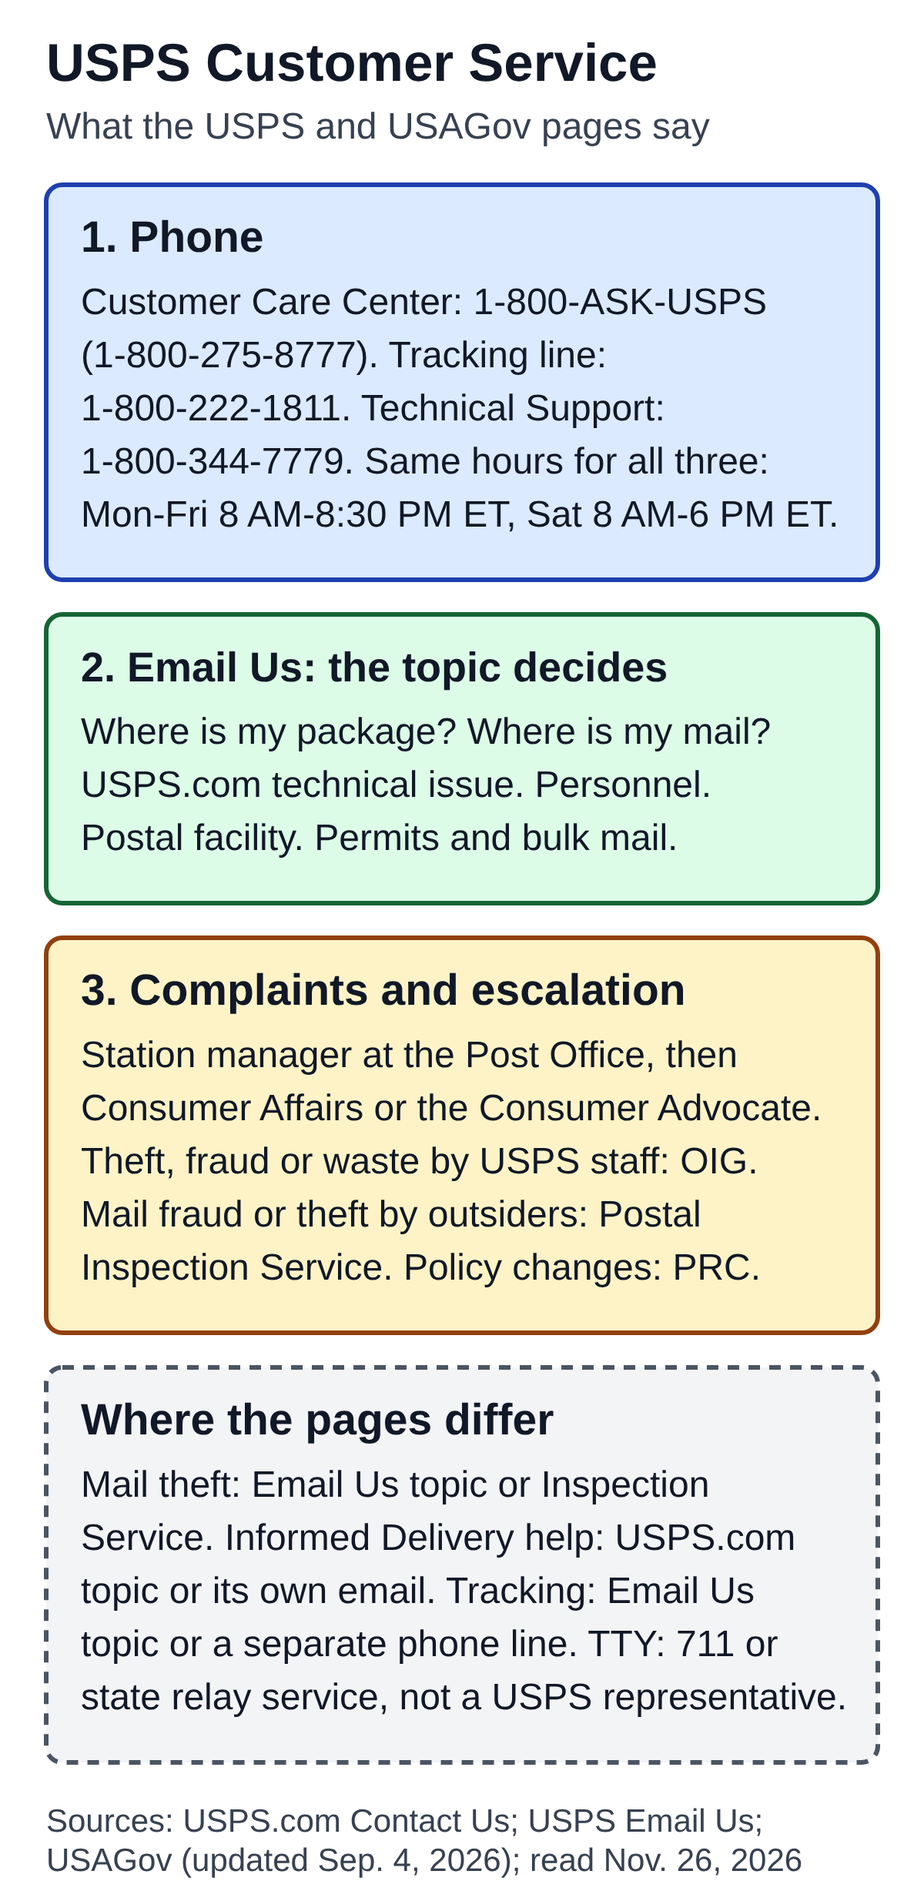
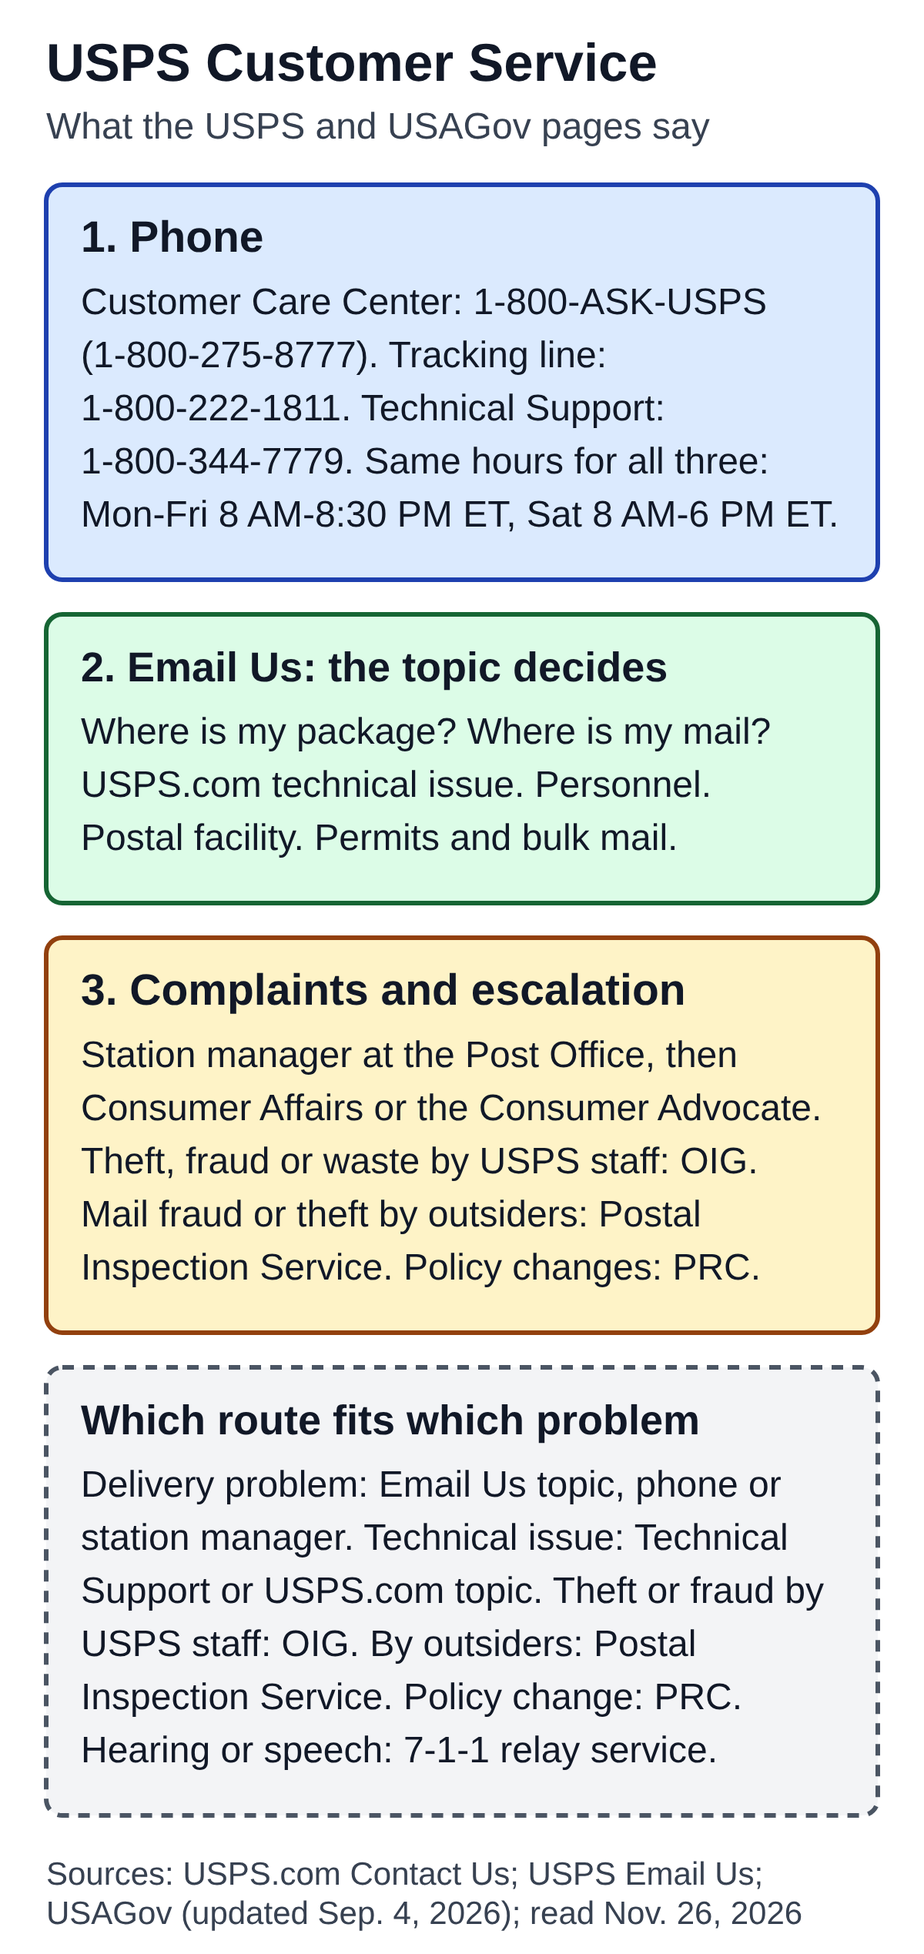
Customer Service: group routes by problem instead of calling them page differences (Gate 2 FIX)
Claude-Session: https://claude.ai/code/session_01BXtGEA3Qzg6u2ejRb8jbFU

diff --git a/content/drafts/usps-customer-service-how-to-contact.md b/content/drafts/usps-customer-service-how-to-contact.md
@@ -1,23 +1,23 @@
 ---
 title: "USPS Customer Service: How to Phone, Email or File a Complaint"
 slug: usps-customer-service-how-to-contact
-meta_description: "What USPS pages say about reaching customer service: phone lines, Email Us topics, where to take a complaint and where the pages differ."
+meta_description: "What USPS pages say about reaching customer service: phone lines, Email Us topics, where to take a complaint and which route fits which problem."
 category: Postal service and stamps
 focus_keyword: usps customer service
 status: draft
 date: 2026-11-26
 internal_link_candidates: usps-tracking-status-what-it-means and usps-missing-mail-search-how-it-works (both published; each appears once in the body with link text matching the live title).
 image: assets/optimized/usps-customer-service-how-to-contact.png
-image_alt: "Diagram of the contact routes on USPS pages. Phone: the Customer Care Center at 1-800-ASK-USPS (1-800-275-8777), a tracking line at 1-800-222-1811 and Technical Support at 1-800-344-7779, all open Monday to Friday 8 AM to 8:30 PM Eastern and Saturday 8 AM to 6 PM Eastern. Email Us: pick a topic, either where is my package, where is my mail, USPS.com technical issues, personnel, postal facility, or permits and bulk mail. Complaints: the station manager at the Post Office, then Consumer Affairs or the Office of the Consumer Advocate; the Inspector General for theft, fraud or waste by USPS staff; the Postal Inspection Service for mail fraud or theft by outsiders; the Postal Regulatory Commission for policy changes. The pages differ on mail theft, Informed Delivery help, tracking questions and TTY."
+image_alt: "Diagram of the contact routes on USPS pages. Phone: the Customer Care Center at 1-800-ASK-USPS (1-800-275-8777), a tracking line at 1-800-222-1811 and Technical Support at 1-800-344-7779, all open Monday to Friday 8 AM to 8:30 PM Eastern and Saturday 8 AM to 6 PM Eastern. Email Us: pick a topic, either where is my package, where is my mail, USPS.com technical issues, personnel, postal facility, or permits and bulk mail. Complaints: the station manager at the Post Office, then Consumer Affairs or the Office of the Consumer Advocate; the Inspector General for theft, fraud or waste by USPS staff; the Postal Inspection Service for mail fraud or theft by outsiders; the Postal Regulatory Commission for policy changes. Which route fits which problem: delivery or mail service, technical issues, theft or fraud by USPS staff or by outsiders, policy changes, and hearing or speech needs through the 7-1-1 relay service."
 ---
 
 # USPS Customer Service: How to Phone, Email or File a Complaint
 
-**USPS pages list one main customer line, 1-800-ASK-USPS (1-800-275-8777), plus separate phone lines for tracking and for technical problems, and an Email Us form that sends you to a different place depending on the reason for your inquiry.** For complaints, a government page adds routes outside USPS customer service for employee misconduct, mail fraud and postal policy. This article puts those routes side by side and shows where the pages word things differently.
+**USPS pages list one main customer line, 1-800-ASK-USPS (1-800-275-8777), plus separate phone lines for tracking and for technical problems, and an Email Us form that sends you to a different place depending on the reason for your inquiry.** For complaints, a government page adds routes outside USPS customer service for employee misconduct, mail fraud and postal policy. This article puts those routes side by side and groups them by the problem each one is for.
 
 This article uses the USPS.com "Contact Us" page (no update date shown), the USPS "Email Us" page at emailus.usps.com (no update date shown) and the USAGov page "How to file a U.S. Postal Service complaint" (last updated September 4, 2026), all read on November 26, 2026. Phone numbers and hours are copied as the pages list them on that date and can change.
 
-![Diagram of the contact routes on USPS pages. Phone: the Customer Care Center at 1-800-ASK-USPS (1-800-275-8777), a tracking line at 1-800-222-1811 and Technical Support at 1-800-344-7779, all open Monday to Friday 8 AM to 8:30 PM Eastern and Saturday 8 AM to 6 PM Eastern. Email Us: pick a topic, either where is my package, where is my mail, USPS.com technical issues, personnel, postal facility, or permits and bulk mail. Complaints: the station manager at the Post Office, then Consumer Affairs or the Office of the Consumer Advocate; the Inspector General for theft, fraud or waste by USPS staff; the Postal Inspection Service for mail fraud or theft by outsiders; the Postal Regulatory Commission for policy changes. The pages differ on mail theft, Informed Delivery help, tracking questions and TTY.](assets/optimized/usps-customer-service-how-to-contact.png)
+![Diagram of the contact routes on USPS pages. Phone: the Customer Care Center at 1-800-ASK-USPS (1-800-275-8777), a tracking line at 1-800-222-1811 and Technical Support at 1-800-344-7779, all open Monday to Friday 8 AM to 8:30 PM Eastern and Saturday 8 AM to 6 PM Eastern. Email Us: pick a topic, either where is my package, where is my mail, USPS.com technical issues, personnel, postal facility, or permits and bulk mail. Complaints: the station manager at the Post Office, then Consumer Affairs or the Office of the Consumer Advocate; the Inspector General for theft, fraud or waste by USPS staff; the Postal Inspection Service for mail fraud or theft by outsiders; the Postal Regulatory Commission for policy changes. Which route fits which problem: delivery or mail service, technical issues, theft or fraud by USPS staff or by outsiders, policy changes, and hearing or speech needs through the 7-1-1 relay service.](assets/optimized/usps-customer-service-how-to-contact.png)
 
 ## Start with the FAQs and tracking
 
@@ -56,16 +56,20 @@ The same page names three other places:
 - **U.S. Postal Inspection Service (USPIS).** The federal law enforcement agency that protects the mail system, for mail fraud and mail theft by a person or company outside USPS, filed online.
 - **Postal Regulatory Commission (PRC).** For a comment or complaint about a policy change such as postage rates, through its online contact form.
 
-## Where the pages differ
+## Which route fits which problem
 
-- **Mail theft.** The Email Us page lists "Theft of Mail" as an example under "Where is my mail?" The USAGov page sends mail theft by someone outside USPS to the Postal Inspection Service. The pages do not say which to use first.
-- **Informed Delivery help.** The Email Us page lists Informed Delivery under USPS.com technical issues. The Contact Us page lists a separate Informed Delivery user-support email and Informed Delivery FAQs.
-- **Tracking questions.** The Email Us page has a "Where is my package?" topic for an envelope or package with a tracking number. The Contact Us page gives a separate phone line for tracking and says representatives see the same tracking information you do.
-- **TTY.** The USAGov page lists "TTY: 711" beside the main number. The USPS page describes dialing 7-1-1 to reach the relay service for your state and says that contact is not a USPS representative.
+The pages describe these routes for different situations rather than as one ordered list, so this section groups them by problem.
+
+- **A delivery or mail service problem.** The Email Us page offers "Where is my package?" and "Where is my mail?" as topics. The USAGov page adds the main phone number and the station manager at your local Post Office, and, if the complaint is not resolved, USPS Consumer Affairs and the Office of the Consumer Advocate.
+- **A question about a tracked package.** The Contact Us page gives a separate tracking phone line and says representatives see the same tracking information you do. The Email Us page has the "Where is my package?" topic for a package or envelope with a tracking number.
+- **A technical problem on USPS.com.** The Contact Us page lists Technical Support by phone and a chat feature. The Email Us page has a USPS.com topic that includes Informed Delivery, and the Contact Us page also lists a separate email address for Informed Delivery user support.
+- **Mail theft or fraud.** The Email Us page lists "Theft of Mail" as an example under "Where is my mail?" The USAGov page names the Office of the Inspector General for theft, fraud or waste at a USPS facility or by a USPS employee, and the Postal Inspection Service for mail fraud or theft by a person or company outside USPS.
+- **A policy change such as postage rates.** The USAGov page names the Postal Regulatory Commission.
+- **Hearing or speech needs.** The USAGov page lists "TTY: 711" beside the main number. The Contact Us page describes the FCC's Telecommunications Relay Services, reached by dialing 7-1-1, and says that contact is not a USPS customer service representative.
 
 ## What the pages do not say
 
-They do not say how long an email reply takes, whether a case or reference number is given, or how long a phone wait is. They do not list holiday hours for the three phone lines above; the only closure stated is for the stamps and Postal Store line, which the page says is closed on Saturdays, Sundays and Postal Holidays. They also do not say what to have ready before you call.
+They do not say which route to start with if you are unsure who took a piece of mail, how long an email reply takes, whether a case or reference number is given, or how long a phone wait is. They do not list holiday hours for the three phone lines above; the only closure stated is for the stamps and Postal Store line, which the page says is closed on Saturdays, Sundays and Postal Holidays. They also do not say what to have ready before you call.
 
 ## Sources
 

diff --git a/docs/content-backlog.md b/docs/content-backlog.md
@@ -82,7 +82,7 @@ Pilot 12 plan: 12 published + 0 ready + 0 draft + 0 briefs = 12 slots, 4 per lan
 | 46 | `usps-registered-mail-how-it-works` | USPS Registered Mail: Security, Tracking and Delivery Explained | `usps registered mail` | **published 2026-11-26 15:00 KST (live QA passed about 15:20 KST)** (WP post 181, media 180; Gate 2 round 4 on `750caf5` = PASS; sources re-read 2026-11-25 with no change; editor 0 invalid blocks; 375 and 320 px checked; file moved to `content/ready/`; the Return Receipt link needs post 174 to be public first; Return Receipt link returned 200) | post-pilot (not counted) | Lane: postal service and stamps. Second of two posts for the 2026-11-26 slots (3 PM KST). Sources: FAQ 000006061 (May 14, 2025), DMM 503 section 2.0 (no date), FAQ 000007968 (May 19, 2026, one row). Demand: handed-over Trends note (0.2 of its anchor over 90 days, 0.35 over 28 days), not re-measured, search volume not checked. No prices, fees or insurance amounts. Differences shown: the word receipt, eligible classes, 14 or more days against 15 days. Five internal links (Certified Mail, claims, tracking status, Return Receipt, Missing Mail); the Return Receipt post must be public first. Re-read all three sources right before publishing. |
 | 47 | `usps-change-of-address-how-it-works` | USPS Change of Address: How to File, Who Can File and What Happens Next | `usps change of address` | **scheduled 2026-11-27 09:00 KST** (WP post 184, media 183, status `future` re-read after saving; Gate 2 PASS after two FIX rounds (`3cf9bce`, `5ec4d21`); sources re-read 2026-11-26 with no change; editor 0 invalid blocks; 375 and 320 px checked; file moved to `content/ready/`; live QA after publication) | post-pilot (not counted) | Lane: postal service and stamps. First of four posts for 2026-11-27 and 2026-11-28 (slot 2026-11-27 9 AM KST). Sources: FAQ 000005313 (Oct 15, 2026), USPS.com Standard Forward Mail page (no date). Demand: relative Trends index only (highest of the surveyed USPS phrases), search volume not checked; see `docs/next-candidates-2026-11-26.md`. No prices or fees (both pages state the identity verification fee; not used). Two timing details shown without calling them conflicts (after Gate 2 round 1 FIX): the 7-10 days (after approval vs after the start date) and temporary forwarding periods. Three internal links (forwarding, Informed Delivery, Hold Mail). Re-read both sources right before publishing. |
 | 48 | `usps-money-order-how-it-works` | USPS Money Orders: How to Buy, Cash and Replace One | `usps money order` | **scheduled 2026-11-26** (Gate 1 done by Claude: FAQ 46 of 48 (2 phrase typos of mine), USPS.com page 31 of 31 and DMM 509.3 24 of 24 phrase checks, 3 image checks; Gate 2 round 1 = FIX (payee rules by DMM clause; no-receipt wording), fixed 2026-11-26, changed parts PASS; pre-publication re-read 2026-11-26 corrected the ID wording (FAQ: acceptable primary form of identification; USPS.com: primary photo ID) and "Form 6387", Gate 2 on that change PASS (`0bdda77`); built in WordPress as post 187 (media 186) and **scheduled for 2026-11-27 3 PM KST**, moved to ready; live QA due about 3:20 PM KST) | post-pilot (not counted) | Lane: postal service and stamps. Second of four posts for 2026-11-27 and 2026-11-28 (slot 2026-11-27 3 PM KST). Sources: FAQ 000006987 (Jun 10, 2026), USPS.com Sending Money Orders page (no date), DMM 509 section 3.0 (no date). **User instruction 2026-11-26: leave out the single-order limit amount**; the article also leaves out fees and every other amount. Demand: relative Trends index only (about 0.13 x the change-of-address phrase), search volume not checked. Differences shown: traveler's checks; one payee (DMM 3.2.4) or several (3.3.5); refund and replacement timing; where to buy. One internal link (claims). Re-read all three sources right before publishing. |
-| 49 | `usps-customer-service-how-to-contact` | USPS Customer Service: How to Phone, Email or File a Complaint | `usps customer service` | **draft 2026-11-26** (Gate 1 done by Claude: USPS.com Contact Us 34 of 34, Email Us 18 of 18, USAGov 22 of 23 (1 phrase typo of mine) phrase checks, 3 image checks; waiting for Gate 2; not moved to ready; nothing built in WordPress) | post-pilot (not counted) | Lane: postal service and stamps. **Replaces USPS Insurance** in the third slot (2026-11-28 9 AM KST): the Insurance pages are mostly amounts and overlap the claims and Priority Mail vs Ground Advantage posts; reported to the user on 2026-11-26. Sources: USPS.com Contact Us (no date), USPS Email Us (no date), USAGov complaint page (updated Sep 4, 2026). Demand: relative Trends index only (about 0.62 x the change-of-address phrase), search volume not checked. No prices or fees; phone numbers and hours dated. Differences shown: mail theft, Informed Delivery help, tracking questions, TTY. Two internal links (tracking status, missing mail search). Re-read all three sources right before publishing (numbers and hours can change). |
+| 49 | `usps-customer-service-how-to-contact` | USPS Customer Service: How to Phone, Email or File a Complaint | `usps customer service` | **draft 2026-11-26** (Gate 1 done by Claude: USPS.com Contact Us 34 of 34, Email Us 18 of 18, USAGov 22 of 23 (1 phrase typo of mine) phrase checks, 3 image checks; Gate 2 round 1 = FIX (the "Where the pages differ" section presented routes as source conflicts), fixed 2026-11-26, waiting for Gate 2 on the changed parts; not moved to ready; nothing built in WordPress) | post-pilot (not counted) | Lane: postal service and stamps. **Replaces USPS Insurance** in the third slot (2026-11-28 9 AM KST): the Insurance pages are mostly amounts and overlap the claims and Priority Mail vs Ground Advantage posts; reported to the user on 2026-11-26. Sources: USPS.com Contact Us (no date), USPS Email Us (no date), USAGov complaint page (updated Sep 4, 2026). Demand: relative Trends index only (about 0.62 x the change-of-address phrase), search volume not checked. No prices or fees; phone numbers and hours dated. Section "Which route fits which problem" (routes grouped by problem, no claimed source conflicts). Two internal links (tracking status, missing mail search). Re-read all three sources right before publishing (numbers and hours can change). |
 | 50 | `usps-free-shipping-supplies-how-it-works` | USPS Free Boxes and Envelopes: What You Can Order and the Rules That Apply | `usps free boxes` | **draft 2026-11-26** (Gate 1 done by Claude: Postal Store listing 29 of 29, nine product pages 54 of 54, Contact Us supply line 4 of 4 phrase checks, 3 image checks; waiting for Gate 2; not moved to ready; nothing built in WordPress) | post-pilot (not counted) | Lane: postal service and stamps. Fourth of four posts for 2026-11-27 and 2026-11-28 (slot 2026-11-28 3 PM KST). Sources: Postal Store Free Shipping Supplies listing and nine product pages (no update dates), USPS.com Contact Us (no date). Demand: relative Trends index only (about 0.07 x the change-of-address phrase), search volume not checked. No prices, fees or insurance amounts. Differences shown: Dual-Use tube, APO/FPO box, similar prepaid boxes that are not free. Four internal links (package pickup, certified mail, registered mail, customer service); the customer-service post must be public first. Re-read all sources right before publishing (stock and maximums change). |
 
 ## Rejected

diff --git a/editorial/qa/usps-customer-service-how-to-contact.md b/editorial/qa/usps-customer-service-how-to-contact.md
@@ -1,8 +1,8 @@
 # QA — USPS Customer Service
 
-Article: `content/drafts/usps-customer-service-how-to-contact.md` (draft, 2026-11-26, about 1,100 words including sources, one H1, Sources included; meta description 136 characters; alt text 805 characters).
+Article: `content/drafts/usps-customer-service-how-to-contact.md` (draft, 2026-11-26, about 1,100 words including sources, one H1, Sources included; meta description 144 characters after the Gate 2 fix; alt text 920 characters).
 
-Stage: draft. Gate 1 (Claude) run on 2026-11-26. Gate 2 not yet run. Backlog row 49.
+Stage: draft. Gate 1 (Claude) run on 2026-11-26. Gate 2 round 1 = FIX (one point, fixed 2026-11-26, see below); waiting for Gate 2 on the changed parts. Backlog row 49.
 
 ## Gate 1 — claim groups
 - USPS.com Contact Us: 34 of 34 phrases found.
@@ -11,14 +11,18 @@ Stage: draft. Gate 1 (Claude) run on 2026-11-26. Gate 2 not yet run. Backlog row
 - The article gives no price, fee, insurance amount or percentage (no dollar or percent sign). It gives phone numbers and hours as the pages list them, dated; it does not give the stamps / Postal Store or free-supplies numbers, the OIG number or the Consumer Advocate address.
 - Link text matches the live titles of `usps-tracking-status-what-it-means` and `usps-missing-mail-search-how-it-works`; link status to be confirmed in the WordPress build.
 
-## Where the pages differ (shown in the article, not resolved)
+## Former "Where the pages differ" (replaced after Gate 2, see below)
 - Mail theft: Email Us topic (theft of mail) vs USAGov (outside theft to the Postal Inspection Service).
 - Informed Delivery help: USPS.com technical-issue topic vs separate Informed Delivery support email.
 - Tracking questions: Email Us "Where is my package?" vs separate tracking phone line.
 - TTY: "TTY: 711" vs dialing 7-1-1 to reach a state relay service.
 
+## Gate 2 round 1 — FIX and what changed
+Gate 2: the article's "Where the pages differ" section and diagram card presented four items as differences between sources, but most are different routes for the same kind of question, not conflicting rules. Examples: USAGov's "TTY: 711" and the USPS page's 7-1-1 relay description are not separate numbers or conflicting rules; tracking questions have an Email Us topic and a phone line as different intake routes. Theft: USAGov separates USPS employee or facility cases (Office of the Inspector General) from outside mail fraud or theft (Postal Inspection Service).
+Fix: the section is now "Which route fits which problem", a grouping by problem (delivery or mail service; tracked package; USPS.com technical problem and Informed Delivery; mail theft or fraud; policy change; hearing or speech needs) that states what each page says without calling anything a conflict. The introduction sentence, meta description ("which route fits which problem"), diagram card 4 ("Which route fits which problem") and the last sentence of the alt text (front matter and Markdown alt text identical) were changed to match. The "What the pages do not say" paragraph gained the gap "which route to start with if you are unsure who took a piece of mail", which none of the pages states. USAGov page re-read on 2026-11-26 (updated September 4, 2026): the three complaint routes, the OIG and USPIS split, the PRC line and "TTY: 711" are as written.
+
 ## Image checks
-PNG 1200 x 2469 px, 492,182 bytes, SHA-256 prefix `48d0a5f99f7d525b`; SVG 4,579 bytes after the C2PA metadata block was removed on the device; md 9,260 bytes, `13807bc240da83c1`; C2PA `caBX` chunk removed from the PNG (pixel data hash unchanged). The rendering script printed no text past the right margin; the PNG was viewed. Diagram text only repeats facts from the article; alt text matches the front matter and the Markdown alt text.
+PNG 1200 x 2538 px, 514710 bytes, SHA-256 prefix `e02240bd3773738b`; SVG 4814 bytes after the C2PA metadata block was removed on the device; md 10,368 bytes, `b72f377abe17d700` (after the Gate 2 fix; before: PNG 2469 px `48d0a5f99f7d525b`, md 9,260 bytes `13807bc240da83c1`); C2PA `caBX` chunk removed from the PNG (pixel data hash unchanged). The rendering script printed no text past the right margin; the PNG was viewed. Diagram text only repeats facts from the article; alt text matches the front matter and the Markdown alt text.
 
 ## Not checked
 Search volume; whether the phone numbers and hours change before publication (re-read right before publishing); the pages for OIG, USPIS and PRC; WordPress (no draft or schedule exists); mobile and editor checks (after Gate 2 PASS).

diff --git a/docs/decision-log.md b/docs/decision-log.md
@@ -1682,3 +1682,7 @@ Gate 2 passed the changed parts of Money Orders (`91d5b5f`). Re-reading the sour
 ## 2026-11-26 (KST) — Money Orders scheduled for 2026-11-27 3 PM KST
 
 Gate 2 passed the changed parts of `0bdda77`. The three sources were re-read (the four spot-a-fake checks and verification options on USPS.com included; no other change), the post was built from the pushed files (media 186, post 187), editor 0 invalid blocks, 375 and 320 px checked, scheduled `future` for 2026-11-27T06:00:00 UTC = 3 PM KST and re-read from WordPress. The file moved to `content/ready/`. Live QA is due about 3:20 PM KST on 2026-11-27. Customer Service and Free Boxes still await Gate 2.
+
+## 2026-11-26 (KST) — Customer Service: Gate 2 round 1 FIX applied
+
+Gate 2 said the "Where the pages differ" section framed ordinary alternative routes as source conflicts (for example "TTY: 711" and the 7-1-1 relay description are not conflicting rules; tracking has an Email Us topic and a phone line as different intake routes; USAGov splits theft by USPS staff from theft or fraud by outsiders). The section, introduction sentence, meta description, diagram card and alt text now group the routes by problem ("Which route fits which problem") and no longer call anything a difference between pages. The USAGov page was re-read to confirm the wording. Not built in WordPress or scheduled until Gate 2 checks the changed parts; the slot stays 2026-11-28 9 AM KST. Free Boxes (3 PM KST) still awaits Gate 2.
